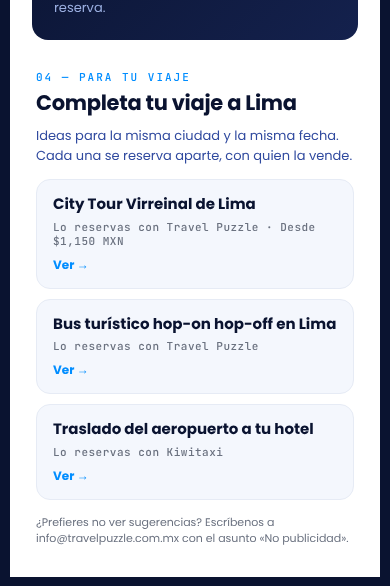
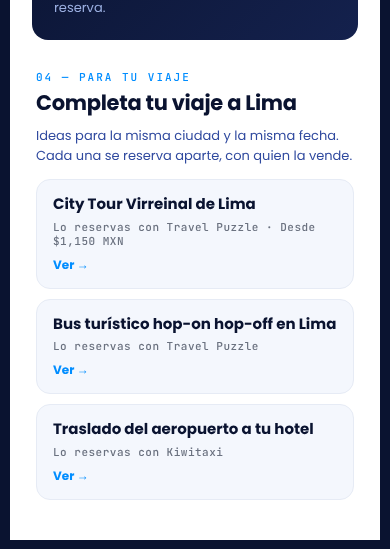
fix(correos): sin lista «No publicidad» por decisión del PO; solo no promover FREETOUR (REQ-267)
Decisión del PO (6-11 09:07, «solo freetours no publicidad»): con la bandera encendida el bloque se muestra sin exigir
EMAIL_NO_PUBLICIDAD. La regla anterior queda oculta y reversible (REQUIRE_NO_PUBLICIDAD = false); el bloque ya no
muestra la línea de negativa para no prometer un mecanismo que no se aplica. Validación LFPDPPP: pregunta para el abogado.
Capturas actualizadas.

Claude-Session: https://claude.ai/code/session_01UA75whNiEQsHj4EbHgKFj7

diff --git a/src/notifications/lib/cross-sell.ts b/src/notifications/lib/cross-sell.ts
@@ -7,9 +7,10 @@
  *   del carrito (prioridades y ocultos por destino, una tarjeta por categoría, máx. 3 como en celular).
  * - REQ-265: UTM por correo en cada enlace; los enlaces van al sitio de Travel Puzzle (nunca directo a terceros).
  * - REQ-266: sin descuentos ni precios inventados: el precio sale tal cual del producto o no se muestra.
- * - REQ-267: LFPDPPP. Es informativo, va solo en correos que ya se envían y respeta la negativa «No publicidad» del aviso
- *   de privacidad; si no hay forma de consultarla, no se muestra (falla cerrada). El consentimiento de marketing
- *   del registro (REQ-084) es aparte y no se toca.
+ * - REQ-267: es informativo y va solo en correos que ya se envían. Decisión del PO (6-11, 09:07, «solo freetours no
+ *   publicidad»): la única restricción es no promover FREETOUR; NO se exige la lista «No publicidad». La lógica de la
+ *   negativa se conserva oculta y reversible (`REQUIRE_NO_PUBLICIDAD = false`); la validación LFPDPPP queda como pregunta
+ *   para el abogado. El consentimiento de marketing del registro (REQ-084) es aparte y no se toca.
  * Puro: sin I/O; fechas sin Intl (INC-001).
  */
 import { buildCarousel, DEFAULT_RULES, type CarouselRule } from "@/companions/lib/carousel";
@@ -17,6 +18,9 @@ import { isFreetourOffer, type OfferSource } from "@/freetour/lib/promo-policy";
 import { BRAND as B } from "./brand";
 import { esc, kit, UI, MONO } from "./email-layout";
 import type { EmailLang } from "./booking-email";
+
+/** REQ-267: con `true` vuelve la regla anterior (sin consultar la negativa no hay bloque, y el bloque dice cómo negarse). */
+export const REQUIRE_NO_PUBLICIDAD = false;
 
 /** Inventario de correos al cliente y a la operación (docs/correos-venta-cruzada.md). */
 export const CROSS_SELL_POLICY = {
@@ -61,8 +65,10 @@ export interface EmailCrossSellCandidate {
 export interface EmailCrossSellInput {
   email: CrossSellEmail;
   enabled: boolean;
-  /** REQ-267: null = no se pudo saber si el cliente pidió «No publicidad» → no se muestra. */
+  /** REQ-267: si el cliente pidió «No publicidad» (true) o no se pudo saber (null). Solo cuenta con `requireOptOut`. */
   optedOut: boolean | null;
+  /** REQ-267: exigir la negativa (por omisión, REQUIRE_NO_PUBLICIDAD = false por decisión del PO). */
+  requireOptOut?: boolean;
   lang: EmailLang;
   site: string;
   context: {
@@ -82,7 +88,8 @@ export interface EmailCrossSellInput {
 }
 
 export interface CrossSellCard { category: CrossSellCategory; title: string; chargedByLabel: string; url: string; priceLabel: string | null }
-export interface CrossSellBlock { email: CrossSellEmail; lang: EmailLang; title: string; intro: string; cards: CrossSellCard[]; optOut: string; cta: string }
+/** `optOut` es null cuando no se exige la negativa: no se promete un mecanismo que no se aplica. */
+export interface CrossSellBlock { email: CrossSellEmail; lang: EmailLang; title: string; intro: string; cards: CrossSellCard[]; optOut: string | null; cta: string }
 
 const T = {
   es: {
@@ -121,7 +128,9 @@ export const PROMO_WORDS = /descuento|% ?off|\boferta|promoci[oó]n|cup[oó]n|gr
 
 export function buildEmailCrossSell(input: EmailCrossSellInput): CrossSellBlock | null {
   const policy = CROSS_SELL_POLICY[input.email];
-  if (!input.enabled || !policy?.aplica || input.optedOut !== false) return null;
+  const requireOptOut = input.requireOptOut ?? REQUIRE_NO_PUBLICIDAD;
+  if (!input.enabled || !policy?.aplica) return null;
+  if (input.optedOut === true || (requireOptOut && input.optedOut !== false)) return null;
   const { cityName, country, day } = input.context;
   if (!cityName || !day || !/^\d{4}-\d{2}-\d{2}$/.test(day)) return null;
   const t = T[input.lang];
@@ -148,7 +157,7 @@ export function buildEmailCrossSell(input: EmailCrossSellInput): CrossSellBlock 
     return url ? [{ category: c.category as CrossSellCategory, title: c.title, chargedByLabel: t.charged(c.chargedBy), url, priceLabel: c.priceLabel ?? null }] : [];
   });
   if (!out.length) return null;
-  return { email: input.email, lang: input.lang, title: t.title(cityName), intro: t.intro, cards: out, optOut: t.optOut, cta: t.cta };
+  return { email: input.email, lang: input.lang, title: t.title(cityName), intro: t.intro, cards: out, optOut: requireOptOut ? t.optOut : null, cta: t.cta };
 }
 
 /** Filas HTML del bloque (mismo marco que «Más planes»). `eyebrow` viene del kit del correo para seguir su numeración. */
@@ -167,12 +176,12 @@ export function renderCrossSellHtml(block: CrossSellBlock | null | undefined, ey
 ${eb(t.eyebrow)}${k.h2(block.title)}
 <p style="margin:-6px 0 14px;font-size:13px;line-height:1.5;color:${B.darkBlue}">${esc(block.intro)}</p>
 <table role="presentation" width="100%" cellpadding="0" cellspacing="0">${cards}</table>
-<p style="margin:4px 0 0;font-size:11px;line-height:1.5;color:${B.muted}">${esc(block.optOut)}</p>
+${block.optOut ? `<p style="margin:4px 0 0;font-size:11px;line-height:1.5;color:${B.muted}">${esc(block.optOut)}</p>` : ""}
 </td></tr>`;
 }
 
 /** Líneas de texto plano del bloque. */
 export function crossSellText(block: CrossSellBlock | null | undefined): string[] {
   if (!block || !block.cards.length) return [];
-  return ["", block.title, block.intro, ...block.cards.map((c) => `- ${c.title} (${c.chargedByLabel}${c.priceLabel ? `, ${c.priceLabel}` : ""}): ${c.url}`), block.optOut];
+  return ["", block.title, block.intro, ...block.cards.map((c) => `- ${c.title} (${c.chargedByLabel}${c.priceLabel ? `, ${c.priceLabel}` : ""}): ${c.url}`), ...(block.optOut ? [block.optOut] : [])];
 }

diff --git a/src/notifications/lib/cross-sell.test.ts b/src/notifications/lib/cross-sell.test.ts
@@ -102,18 +102,26 @@ describe("REQ-266 sin descuentos ni precios inventados", () => {
     expect(buildEmailCrossSell(input({ candidates: [{ ...transfer, title: "Traslado con 20% de descuento" }] }))).toBeNull();
     for (const lang of ["es", "en"] as const) {
       const b = buildEmailCrossSell(input({ lang }))!;
-      expect(PROMO_WORDS.test(`${b.title} ${b.intro} ${b.optOut} ${b.cta} ${b.cards.map((c) => c.chargedByLabel).join(" ")}`)).toBe(false);
+      expect(PROMO_WORDS.test(`${b.title} ${b.intro} ${b.optOut ?? ""} ${b.cta} ${b.cards.map((c) => c.chargedByLabel).join(" ")}`)).toBe(false);
     }
   });
 });
 
-describe("REQ-267 LFPDPPP: informativo y con la negativa respetada", () => {
-  it("REQ-267 si el cliente pidió «No publicidad», o no se puede saber, no hay bloque", () => {
-    expect(buildEmailCrossSell(input({ optedOut: true }))).toBeNull();
-    expect(buildEmailCrossSell(input({ optedOut: null }))).toBeNull();
+describe("REQ-267 informativo; decisión del PO (6-11 09:07): sin lista «No publicidad»", () => {
+  it("REQ-267 por omisión no se exige la negativa: sin forma de consultarla también hay bloque, y no promete un mecanismo", () => {
+    const b = buildEmailCrossSell(input({ optedOut: null }))!;
+    expect(b.cards.length).toBeGreaterThan(0);
+    expect(b.optOut).toBeNull();
+    expect(renderCrossSellHtml(b)).not.toContain("No publicidad");
+    expect(crossSellText(b).join("\n")).not.toContain("No publicidad");
   });
-  it("REQ-267 el bloque dice cómo negarse y que cada cosa se reserva aparte con quien la vende", () => {
-    const b = buildEmailCrossSell(input())!;
+  it("REQ-267 reversible: con requireOptOut vuelve la regla anterior (falla cerrada y línea de negativa)", () => {
+    expect(buildEmailCrossSell(input({ optedOut: null, requireOptOut: true }))).toBeNull();
+    expect(buildEmailCrossSell(input({ optedOut: true, requireOptOut: true }))).toBeNull();
+    expect(buildEmailCrossSell(input({ optedOut: false, requireOptOut: true }))?.optOut).toContain("No publicidad");
+  });
+  it("REQ-267 el bloque dice que cada cosa se reserva aparte con quien la vende", () => {
+    const b = buildEmailCrossSell(input({ requireOptOut: true }))!;
     expect(b.optOut).toContain("No publicidad");
     expect(b.intro).toContain("se reserva aparte");
     expect(b.cards.find((c) => c.category === "transfer")?.chargedByLabel).toBe("Lo reservas con Kiwitaxi");

diff --git a/src/notifications/cross-sell.ts b/src/notifications/cross-sell.ts
@@ -5,7 +5,7 @@
 import type { BookingRecord } from "@/booking/lib/booking-record";
 import { pickByPlace } from "@/trips/lib/match";
 import type { TripCard } from "@/trips/public-load";
-import { buildEmailCrossSell, type CrossSellBlock, type CrossSellEmail, type EmailCrossSellCandidate } from "./lib/cross-sell";
+import { buildEmailCrossSell, REQUIRE_NO_PUBLICIDAD, type CrossSellBlock, type CrossSellEmail, type EmailCrossSellCandidate } from "./lib/cross-sell";
 import type { EmailLang } from "./lib/booking-email";
 
 export interface CrossSellPlace { cityName: string | null; country: string | null; cityCode: string | null }
@@ -19,8 +19,10 @@ export interface CrossSellLoaderDeps {
   tripCards(lang: string): Promise<TripCard[]>;
   /** TRANSFERS_ENABLED: /traslados está publicado (Kiwitaxi). */
   transfers: boolean;
-  /** REQ-267: ¿el cliente pidió «No publicidad»? Sin esta función el bloque no se muestra (falla cerrada). */
+  /** REQ-267: ¿el cliente pidió «No publicidad»? Solo se consulta con `requireOptOut` (hoy no: decisión del PO 6-11 09:07). */
   noPublicidad?: (email: string) => Promise<boolean>;
+  /** REQ-267: exigir la negativa; por omisión REQUIRE_NO_PUBLICIDAD (false). */
+  requireOptOut?: boolean;
   now?: () => number;
 }
 
@@ -50,8 +52,9 @@ export async function loadEmailCrossSell(
 ): Promise<CrossSellBlock | null> {
   if (!deps?.enabled || !record.tourExternalId) return null;
   try {
-    const optedOut = deps.noPublicidad ? await deps.noPublicidad(record.email) : null;
-    if (optedOut !== false) return null;
+    const requireOptOut = deps.requireOptOut ?? REQUIRE_NO_PUBLICIDAD;
+    const optedOut = requireOptOut ? (deps.noPublicidad ? await deps.noPublicidad(record.email) : null) : false;
+    if (requireOptOut && optedOut !== false) return null;
     const place = await deps.place(record.tourExternalId);
     if (!place?.cityName) return null;
     const cards = await deps.tripCards(lang).catch(() => []);
@@ -59,6 +62,7 @@ export async function loadEmailCrossSell(
       email,
       enabled: deps.enabled,
       optedOut,
+      requireOptOut,
       lang,
       site,
       context: {

diff --git a/src/notifications/cross-sell.test.ts b/src/notifications/cross-sell.test.ts
@@ -55,9 +55,15 @@ describe("REQ-264 / REQ-267 carga del bloque", () => {
     expect(await loadEmailCrossSell("confirmation", record, "es", SITE, undefined)).toBeNull();
     expect(place).not.toHaveBeenCalled();
   });
-  it("REQ-267 sin forma de consultar la negativa, o con negativa, no hay bloque", async () => {
-    expect(await loadEmailCrossSell("confirmation", record, "es", SITE, deps({ noPublicidad: undefined }))).toBeNull();
-    expect(await loadEmailCrossSell("confirmation", record, "es", SITE, deps({ noPublicidad: async () => true }))).toBeNull();
+  it("REQ-267 decisión del PO: sin lista de negativa también hay bloque, y no se consulta", async () => {
+    const noPublicidad = vi.fn(async () => true);
+    expect((await loadEmailCrossSell("confirmation", record, "es", SITE, deps({ noPublicidad: undefined })))?.cards.length).toBeGreaterThan(0);
+    expect((await loadEmailCrossSell("confirmation", record, "es", SITE, deps({ noPublicidad })))?.cards.length).toBeGreaterThan(0);
+    expect(noPublicidad).not.toHaveBeenCalled();
+  });
+  it("REQ-267 reversible: con requireOptOut, sin forma de consultarla o con negativa, no hay bloque", async () => {
+    expect(await loadEmailCrossSell("confirmation", record, "es", SITE, deps({ requireOptOut: true, noPublicidad: undefined }))).toBeNull();
+    expect(await loadEmailCrossSell("confirmation", record, "es", SITE, deps({ requireOptOut: true, noPublicidad: async () => true }))).toBeNull();
   });
   it("REQ-264 si algo falla, el correo sale sin bloque (nunca lanza)", async () => {
     expect(await loadEmailCrossSell("confirmation", record, "es", SITE, deps({ place: async () => { throw new Error("D1"); } }))).toBeNull();

diff --git a/docs/correos-venta-cruzada.md b/docs/correos-venta-cruzada.md
@@ -41,12 +41,13 @@ Inventario de todos los correos del repo (`origin/main` en c8f18e0) y dónde va 
 
 - El bloque es **informativo** y va solo dentro de correos que ya se envían. No hay envíos nuevos ni píxeles de rastreo.
 - El aviso de privacidad (`legal/lib/privacidad.ts`) ya lista «Enviar publicidad relevante propia o de terceros» como **finalidad no necesaria**, con negativa por correo (asunto «No publicidad»). El bloque repite cómo negarse.
-- La negativa se respeta con la variable `EMAIL_NO_PUBLICIDAD`: una lista de SHA-256 de correos en minúsculas, nunca en claro. **Sin la variable, el bloque no sale** (falla cerrada). Vacía significa que nadie se ha negado.
+- **Decisión del PO (6-11, 09:07, «solo freetours no publicidad»): la única restricción del bloque es no promover FREETOUR; no se exige la lista de «No publicidad».** La lógica de abajo se conserva oculta y reversible (`REQUIRE_NO_PUBLICIDAD = false` en `lib/cross-sell.ts`), y la validación LFPDPPP queda como pregunta para el abogado. Mientras no se exija, el bloque no muestra la línea «¿Prefieres no ver sugerencias?», para no prometer un mecanismo que no se aplica.
+- (Oculto, reversible) La negativa se respeta con la variable `EMAIL_NO_PUBLICIDAD`: una lista de SHA-256 de correos en minúsculas, nunca en claro. **Sin la variable, el bloque no sale** (falla cerrada). Vacía significa que nadie se ha negado.
 - La casilla de consentimiento de marketing del registro (REQ-084, `MARKETING_CONSENT_ENABLED`) es aparte y no se toca. Este bloque no la necesita porque no es una campaña de email (B2) y va dentro de un correo transaccional. Si el PO o el abogado deciden que sí la necesita, se encadena a esa casilla en su propio PR.
 
 ## 4. Para encender (un cambio a la vez)
 
-1. Cargar `EMAIL_NO_PUBLICIDAD` (variable: candado del PO), aunque esté vacía.
+1. ~~Cargar `EMAIL_NO_PUBLICIDAD`~~: ya no hace falta (decisión del PO, 6-11 09:07).
 2. PR que cambia `EMAIL_CROSS_SELL_ENABLED` a `"true"`, con preview, prueba de humo y una reserva de prueba que reciba el correo.
 3. Después de publicar, revisar 3 correos reales (confirmación, 48 h y cambio) y que el rechazo y la cancelación lleguen sin bloque.
 
@@ -57,6 +58,6 @@ Inventario de todos los correos del repo (`origin/main` en c8f18e0) y dónde va 
 | 7 | Qué correos llevan el bloque (confirmación, 48 h, día, modificada, post-tour; pago recibido en una ola siguiente) | Firmado por recomendación |
 | 8 | En el correo no se exige que la primera tarjeta sea un tour (`requireTour: false`) | Firmado por recomendación |
 | 9 | Viajes propios de la misma ciudad o, si no hay, del mismo país | Firmado por recomendación |
-| 10 | Negativa «No publicidad»: variable `EMAIL_NO_PUBLICIDAD` o tabla de bajas | **Pendiente (candado del PO).** Mientras no exista una de las dos, el bloque no se muestra aunque la bandera esté encendida (falla cerrada, ya implementado). |
-| 11 | ¿Basta la negativa del aviso de privacidad o hace falta consentimiento expreso (REQ-084)? | **Pregunta para el abogado.** No se enciende la bandera sin su respuesta. |
+| 10 | Negativa «No publicidad»: variable `EMAIL_NO_PUBLICIDAD` o tabla de bajas | **Decisión del PO (6-11 09:07): no se exige.** Solo no promover FREETOUR. Código conservado oculto (`REQUIRE_NO_PUBLICIDAD = false`). |
+| 11 | Validación LFPDPPP del bloque (sin lista de negativa y sin consentimiento expreso, REQ-084) | **Pregunta para el abogado** (lista de preguntas). |
 | 12 | Copy del bloque («Completa tu viaje a {ciudad}», intro y línea de negativa) | Firmado por recomendación |

diff --git a/docs/requisitos.md b/docs/requisitos.md
@@ -184,6 +184,6 @@ Numeración: REQ-260 y REQ-261 son de la fase T1 de la taxonomía (PR #156); est
 | REQ-264 | "Propón y construye, tras la bandera EMAIL_CROSS_SELL_ENABLED=false, un bloque de venta cruzada en los correos donde aplique" | Dada `EMAIL_CROSS_SELL_ENABLED="false"` (o falta), cuando sale cualquier correo, entonces es igual que hoy; con "true", los 5 correos del inventario pintan el bloque en HTML y en texto; si algo falla, el correo sale sin bloque. | CUMPLIDO (apagado) |
 | REQ-265 | "Con UTM por correo" | Dado el bloque, cuando se pinta un enlace, entonces lleva `utm_source=travelpuzzle`, `utm_medium=email`, `utm_campaign=venta-cruzada-{correo}` y `utm_content={categoría}`, sin perder sus parámetros. | CUMPLIDO |
 | REQ-266 | "Sin inventar descuentos" | Dado el bloque, cuando se pinta, entonces el precio sale tal cual del producto o no se muestra (uno convertido no se repite), ningún texto dice descuento, oferta, promoción, cupón ni «gratis», y un producto que lo diga no entra. | CUMPLIDO |
-| REQ-267 | "Respeta el consentimiento LFPDPPP: el bloque va solo en correos transaccionales que ya se envían y es informativo; si el plan lo exige, el consentimiento de marketing va aparte" | Dado un cliente que pidió «No publicidad» (SHA-256 en `EMAIL_NO_PUBLICIDAD`), o sin forma de consultarlo (variable ausente), cuando sale su correo, entonces no hay bloque; el bloque explica cómo negarse y que cada cosa se reserva aparte; no agrega envíos ni píxeles; la casilla de marketing (REQ-084) no se toca. | CUMPLIDO (encender: variable y OK del PO) |
+| REQ-267 | "Respeta el consentimiento LFPDPPP: el bloque va solo en correos transaccionales que ya se envían y es informativo" + decisión del PO (6-11 09:07): «solo freetours no publicidad» | Dado un correo con bloque, cuando se arma, entonces la única restricción es no promover FREETOUR (REQ-263); no se exige la lista «No publicidad» y el bloque no promete un mecanismo de negativa; la regla anterior queda oculta y reversible (`REQUIRE_NO_PUBLICIDAD = false`); no agrega envíos ni píxeles; la casilla de marketing (REQ-084) no se toca. Validación LFPDPPP: pregunta para el abogado. | CUMPLIDO |
 | REQ-187 | La llave del agente no se pudo cargar con el workflow manual (6 nov 2026): un PR subió su versión de prueba y Cloudflare no deja cambiar secretos si la última versión no es la publicada | Dada una publicación de main, cuando en «Secretos del Worker» falta AGENTE_TOKEN, entonces crea una llave y la carga primero como CATALOGO_TRAVEL_PUZZLE en mila-zoefel y luego como AGENTE_TOKEN aquí, sin imprimirla; si ya existe, no la toca. | REEMPLAZADO por REQ-188: la publicación ya no usa `secret put` (REQ-155, INC-006), así que ese paso quedó apagado |
 | REQ-188 | Reemplaza a REQ-187 (6 nov 2026): la llave del agente viaja con la versión | Dada una publicación de main, cuando falta AGENTE_TOKEN, entonces se genera una vez, se carga primero como CATALOGO_TRAVEL_PUZZLE en mila-zoefel y solo si eso funcionó viaja con la versión (--secrets-file); si falla, avisa y la próxima publicación lo vuelve a intentar. Nunca se imprime. | CUMPLIDO (src/ops/lib/worker-secrets.test.ts) |
